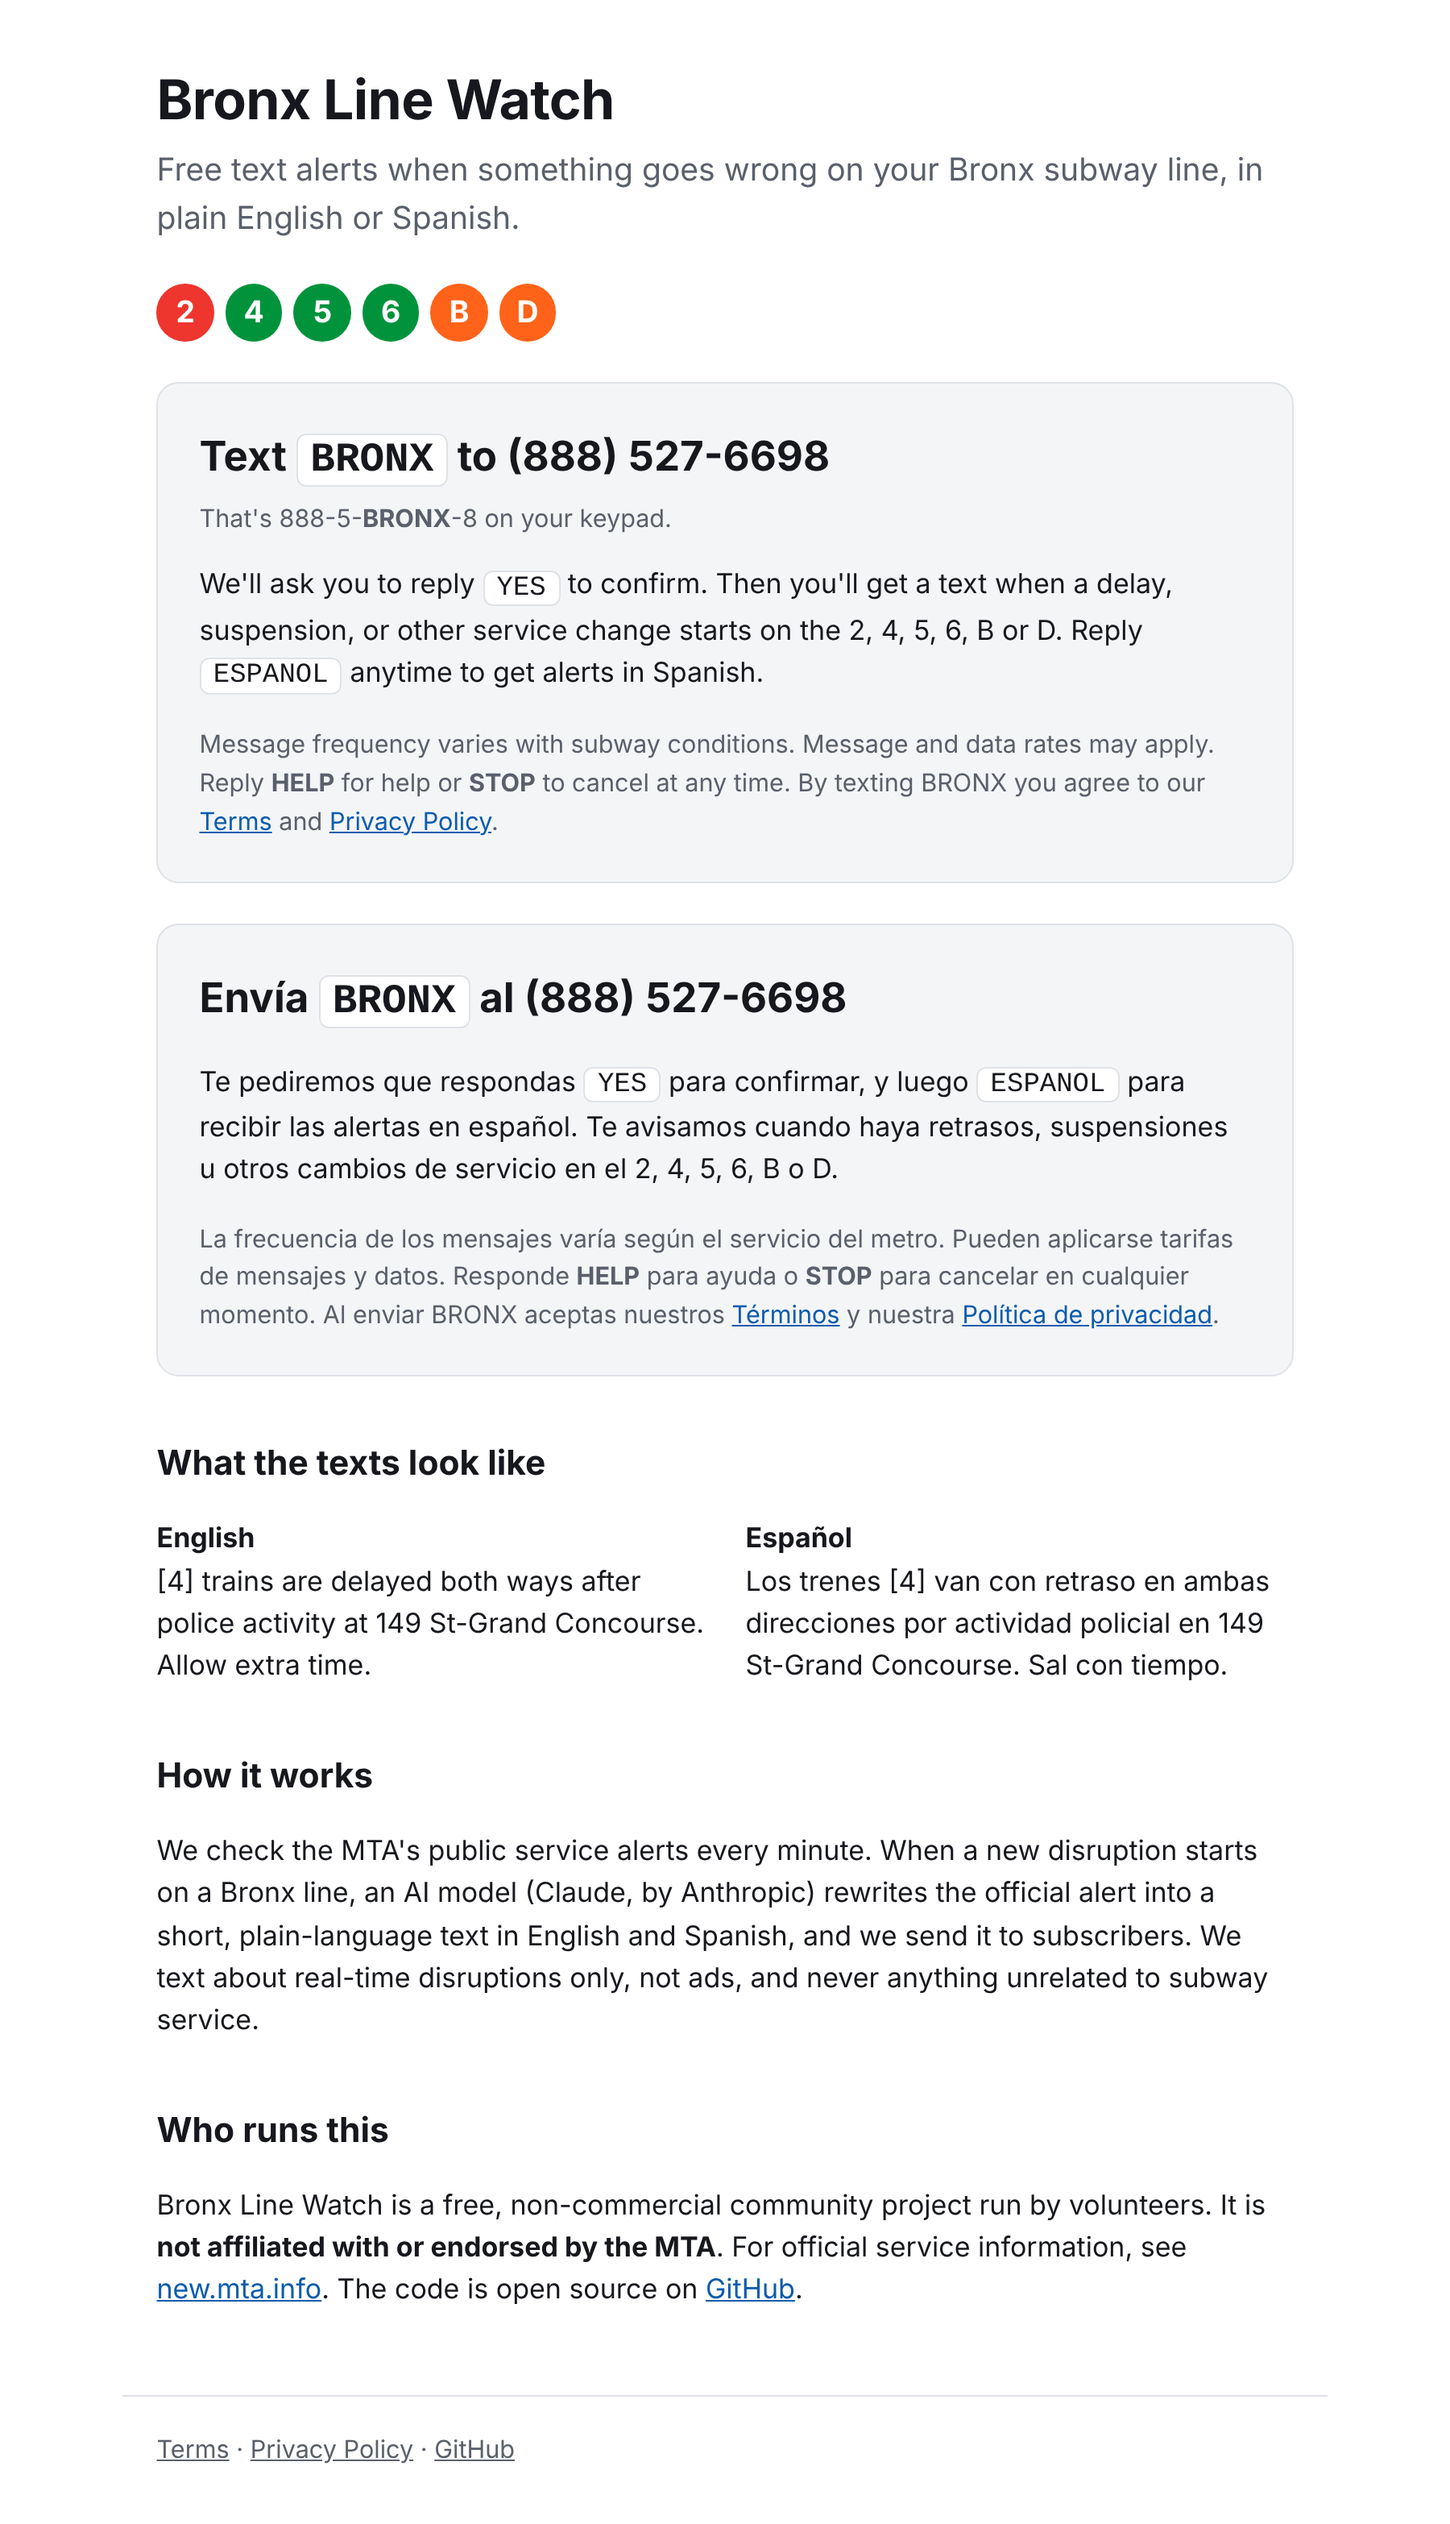
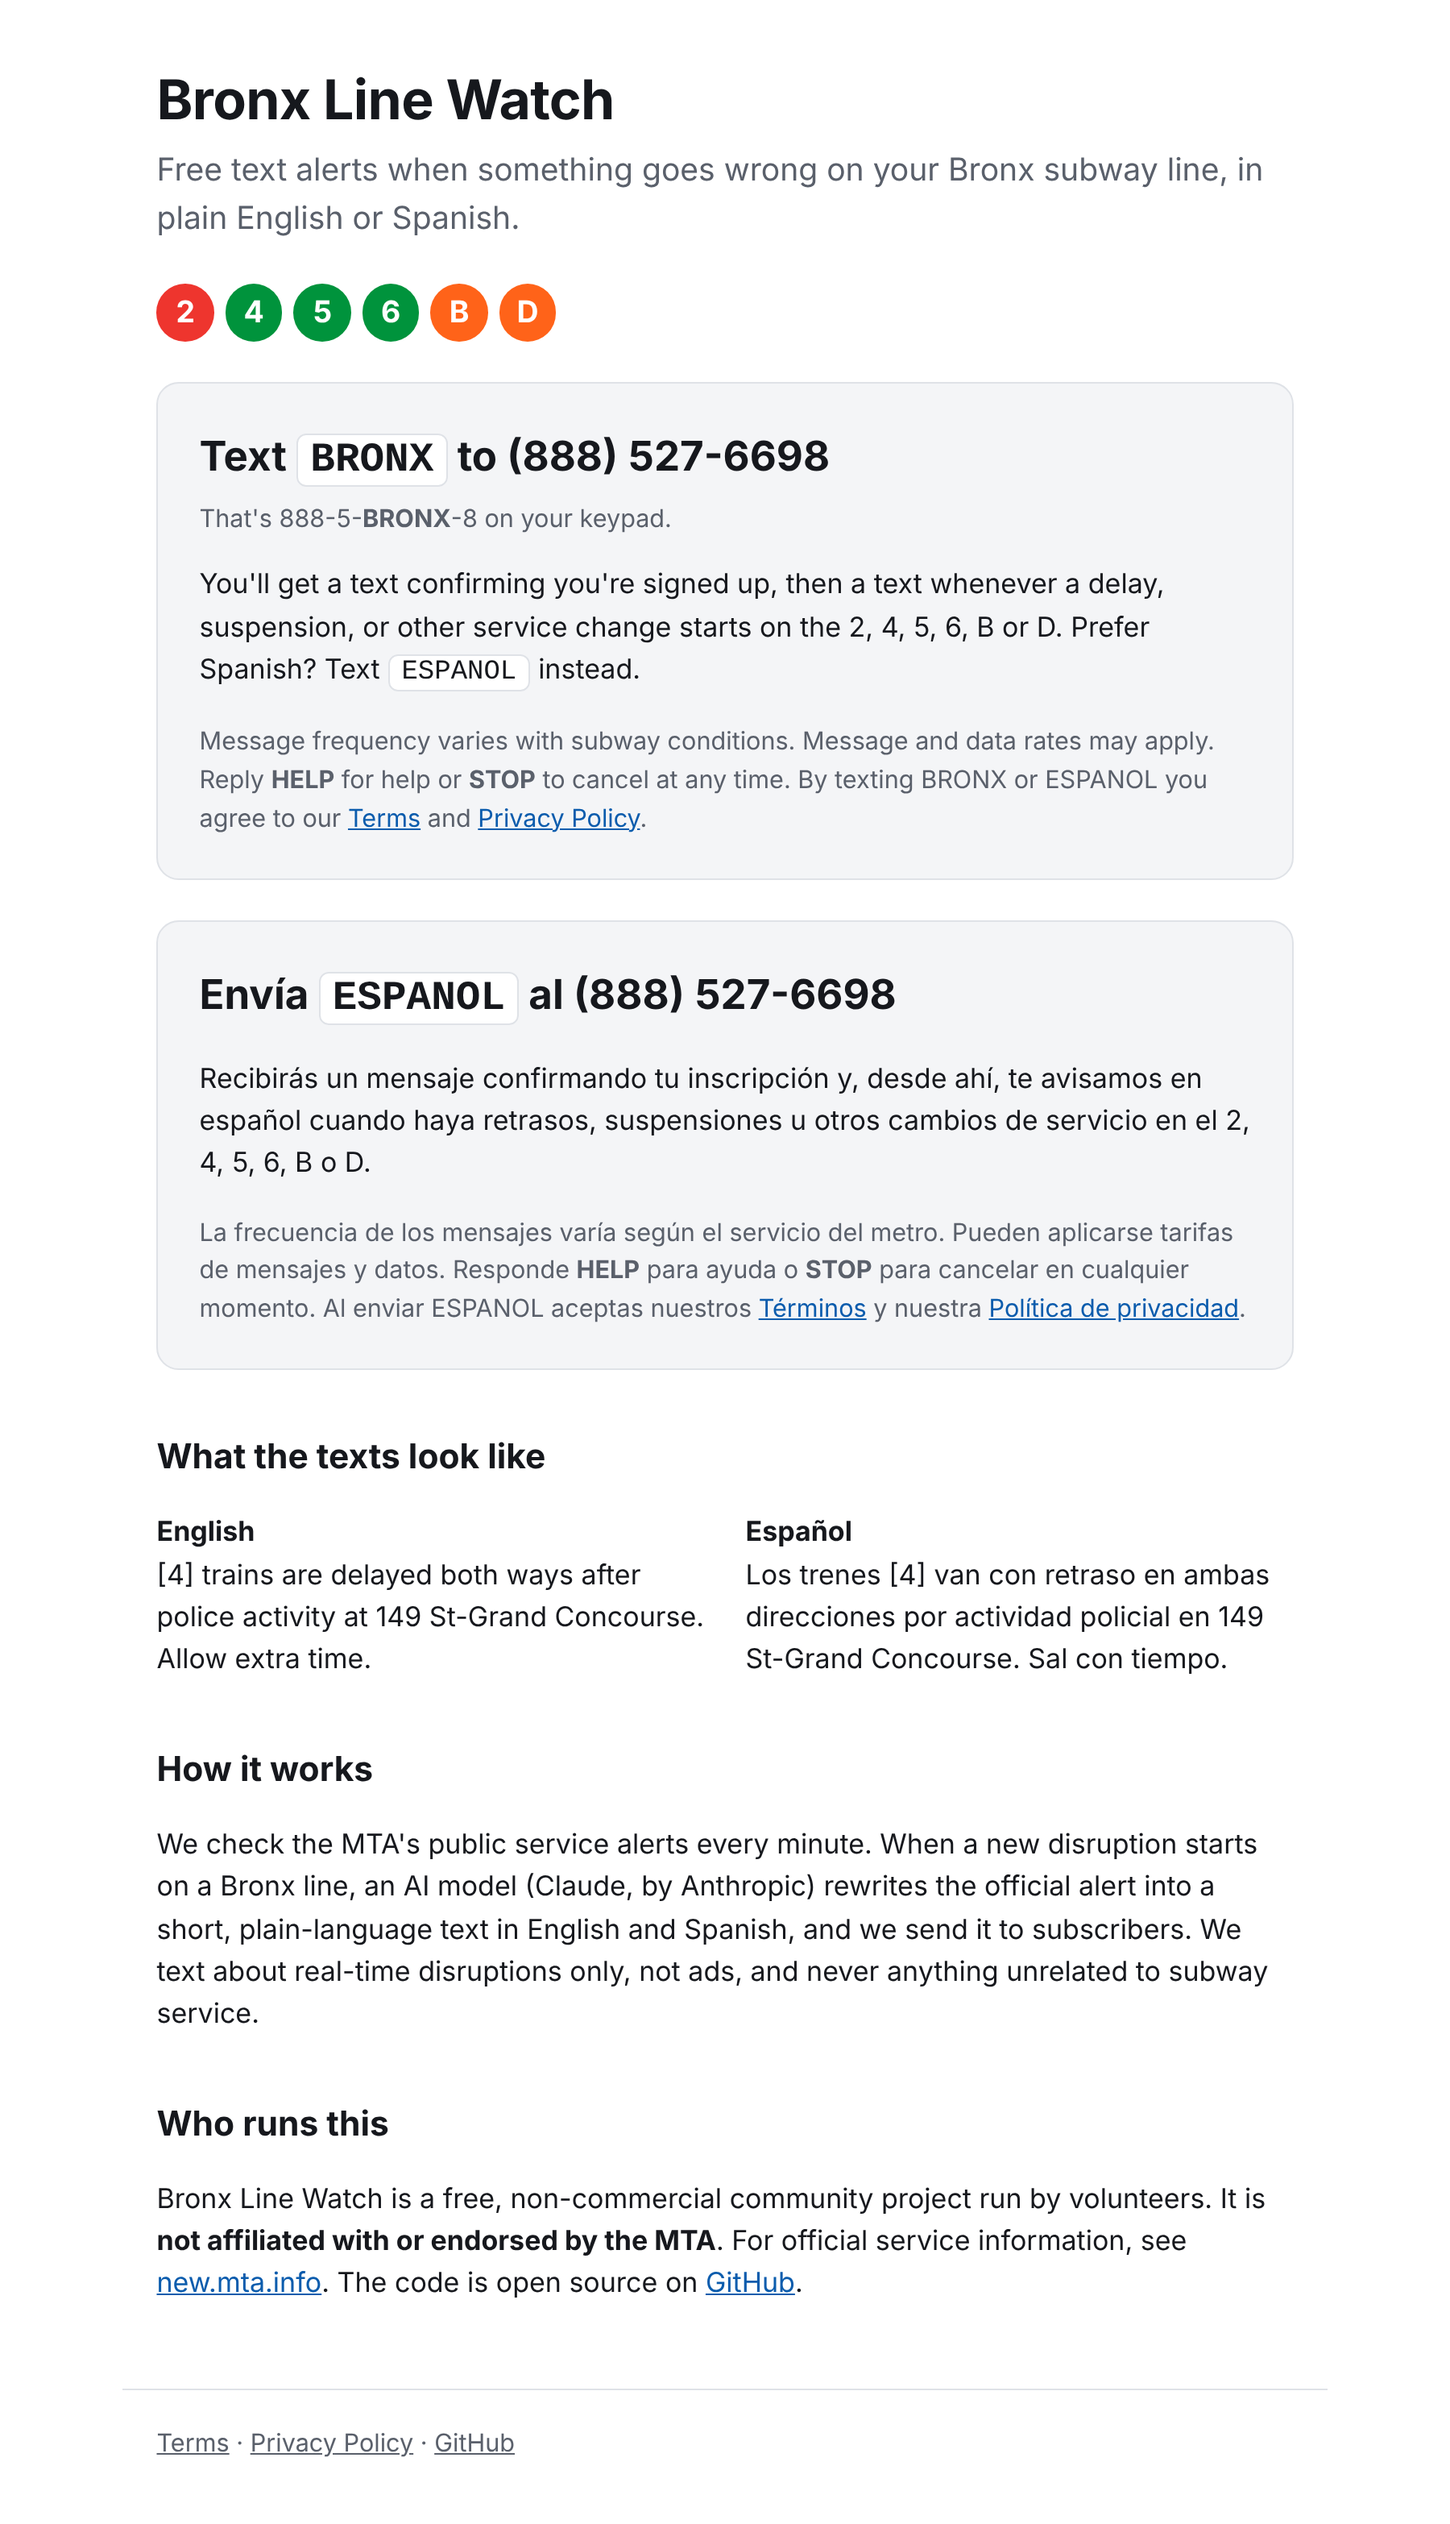
Switch SMS sign-up to single-step keywords: BRONX (English), ESPANOL (Spanish)
Twilio's built-in opt-in keywords send one confirmation reply, so the
BRONX -> YES two-step flow couldn't work without code. Pages, terms, and the
opt-in proof screenshot now match what Twilio will actually do.

Claude-Session: https://claude.ai/code/session_01VQMhLUPGhj8mxUbjkmZP7y

diff --git a/docs/index.html b/docs/index.html
@@ -20,14 +20,14 @@
     <section class="signup" id="signup">
       <p class="cta">Text <span class="keyword">BRONX</span> to <span class="phone">(888) 527-6698</span></p>
       <p class="fine" style="margin-top:0">That's 888-5-<strong>BRONX</strong>-8 on your keypad.</p>
-      <p>We'll ask you to reply <span class="keyword">YES</span> to confirm. Then you'll get a text when a delay, suspension, or other service change starts on the 2, 4, 5, 6, B or D. Reply <span class="keyword">ESPANOL</span> anytime to get alerts in Spanish.</p>
-      <p class="fine">Message frequency varies with subway conditions. Message and data rates may apply. Reply <strong>HELP</strong> for help or <strong>STOP</strong> to cancel at any time. By texting BRONX you agree to our <a href="terms.html">Terms</a> and <a href="privacy.html">Privacy Policy</a>.</p>
+      <p>You'll get a text confirming you're signed up, then a text whenever a delay, suspension, or other service change starts on the 2, 4, 5, 6, B or D. Prefer Spanish? Text <span class="keyword">ESPANOL</span> instead.</p>
+      <p class="fine">Message frequency varies with subway conditions. Message and data rates may apply. Reply <strong>HELP</strong> for help or <strong>STOP</strong> to cancel at any time. By texting BRONX or ESPANOL you agree to our <a href="terms.html">Terms</a> and <a href="privacy.html">Privacy Policy</a>.</p>
     </section>
 
     <section class="signup" id="es" lang="es">
-      <p class="cta">Envía <span class="keyword">BRONX</span> al <span class="phone">(888) 527-6698</span></p>
-      <p>Te pediremos que respondas <span class="keyword">YES</span> para confirmar, y luego <span class="keyword">ESPANOL</span> para recibir las alertas en español. Te avisamos cuando haya retrasos, suspensiones u otros cambios de servicio en el 2, 4, 5, 6, B o D.</p>
-      <p class="fine">La frecuencia de los mensajes varía según el servicio del metro. Pueden aplicarse tarifas de mensajes y datos. Responde <strong>HELP</strong> para ayuda o <strong>STOP</strong> para cancelar en cualquier momento. Al enviar BRONX aceptas nuestros <a href="terms.html">Términos</a> y nuestra <a href="privacy.html">Política de privacidad</a>.</p>
+      <p class="cta">Envía <span class="keyword">ESPANOL</span> al <span class="phone">(888) 527-6698</span></p>
+      <p>Recibirás un mensaje confirmando tu inscripción y, desde ahí, te avisamos en español cuando haya retrasos, suspensiones u otros cambios de servicio en el 2, 4, 5, 6, B o D.</p>
+      <p class="fine">La frecuencia de los mensajes varía según el servicio del metro. Pueden aplicarse tarifas de mensajes y datos. Responde <strong>HELP</strong> para ayuda o <strong>STOP</strong> para cancelar en cualquier momento. Al enviar ESPANOL aceptas nuestros <a href="terms.html">Términos</a> y nuestra <a href="privacy.html">Política de privacidad</a>.</p>
     </section>
 
     <h2>What the texts look like</h2>

diff --git a/docs/terms.html b/docs/terms.html
@@ -13,7 +13,7 @@
     <p class="lede">Effective November 1, 2026</p>
   </header>
   <main>
-    <p>Bronx Line Watch ("we", "us") is a free, non-commercial text message service that sends NYC subway service alerts for the 2, 4, 5, 6, B and D lines. By texting BRONX to <span class="phone">(888) 527-6698</span> and replying YES, you agree to these terms.</p>
+    <p>Bronx Line Watch ("we", "us") is a free, non-commercial text message service that sends NYC subway service alerts for the 2, 4, 5, 6, B and D lines. By texting BRONX or ESPANOL to <span class="phone">(888) 527-6698</span>, you agree to these terms.</p>
 
     <h2>The service</h2>
     <ul>
@@ -27,7 +27,7 @@
     <ul>
       <li>Reply <strong>STOP</strong> at any time to unsubscribe. You'll get one message confirming you've been removed, and no further messages.</li>
       <li>Reply <strong>HELP</strong> for help, or visit <a href="index.html">our website</a>.</li>
-      <li>Reply <strong>ESPANOL</strong> to switch to Spanish, or <strong>ENGLISH</strong> to switch back.</li>
+      <li>Text <strong>ESPANOL</strong> to get alerts in Spanish, or <strong>BRONX</strong> for English.</li>
     </ul>
 
     <h2>Accuracy</h2>

diff --git a/docs/privacy.html b/docs/privacy.html
@@ -19,7 +19,7 @@
     <ul>
       <li>Your <strong>mobile phone number</strong>.</li>
       <li>Your <strong>language preference</strong> (English or Spanish).</li>
-      <li>The <strong>keyword replies</strong> you send us (BRONX, YES, ESPANOL, HELP, STOP) and basic delivery records kept by our text message provider.</li>
+      <li>The <strong>keyword replies</strong> you send us (such as BRONX, ESPANOL, HELP, STOP) and basic delivery records kept by our text message provider.</li>
     </ul>
     <p>We do not collect your name, location, or any other personal information. This website does not use cookies or tracking.</p>
 
